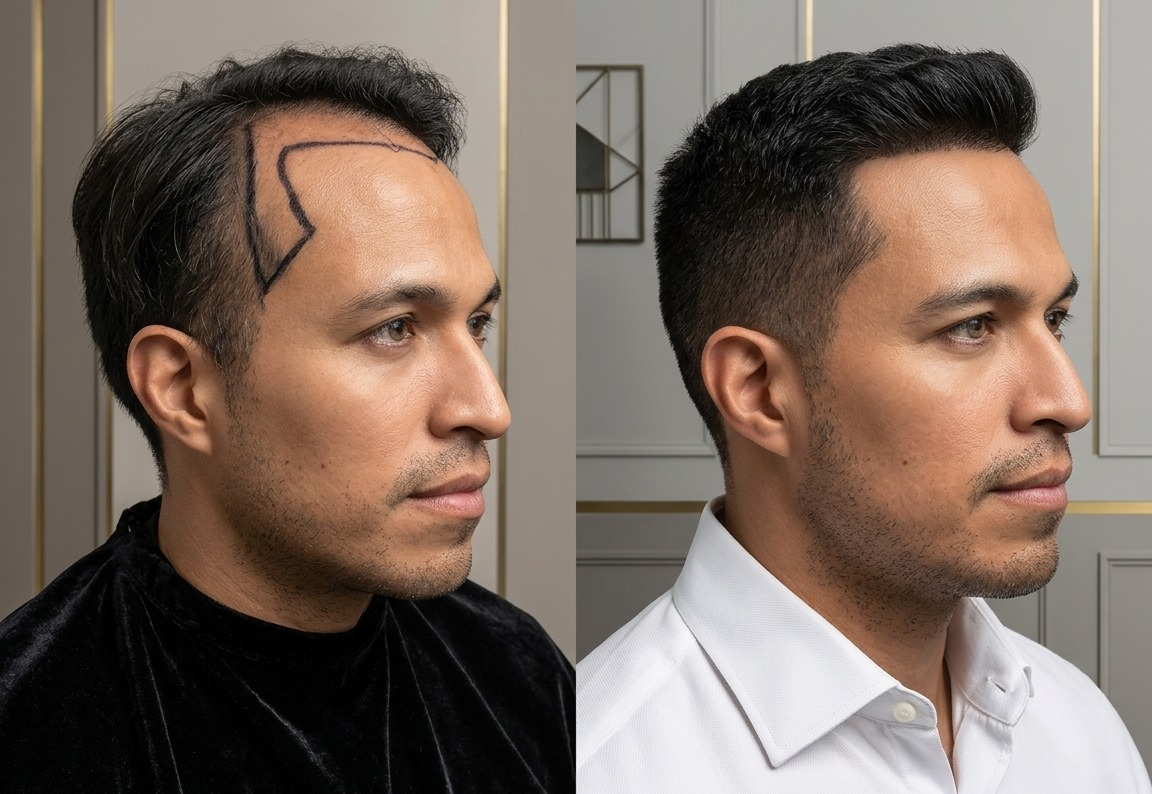
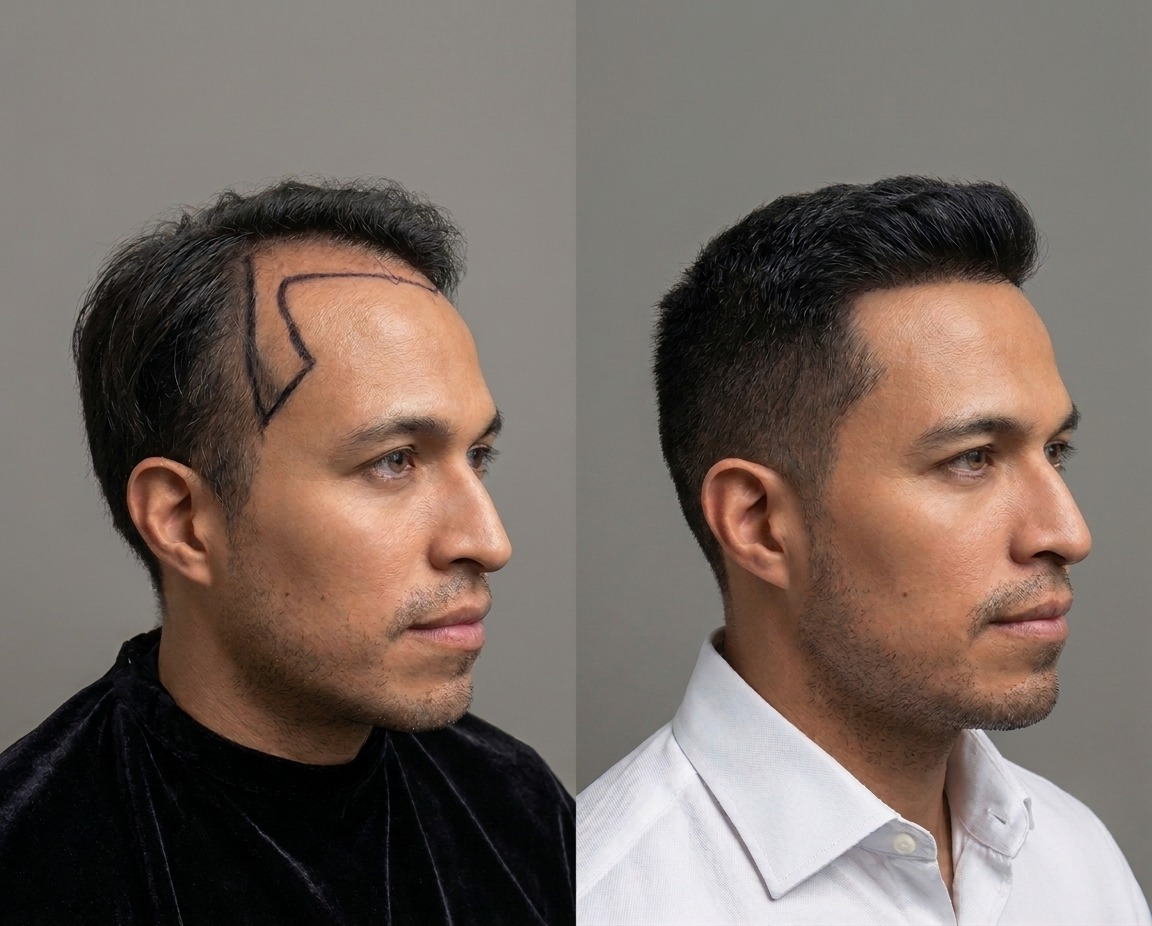
Swap Mexico City hair transplant before/after photo
Replace the destination BA image with the updated pair.

diff --git a/procedures/hair-transplant.html b/procedures/hair-transplant.html
@@ -255,7 +255,7 @@
             <p class="proc-guide__dest-copy">Close and affordable for patients in the U.S. and Canada. An estimated 40 to 60 percent of medical tourists there come from the U.S.</p>
           </div>
           <figure class="proc-guide__photo proc-guide__photo--face">
-            <img src="../assets/hair-ba-mexico-city.jpg" alt="Illustrative hair transplant before and after example for Mexico City" width="1152" height="794" loading="lazy" decoding="async">
+            <img src="../assets/hair-ba-mexico-city.jpg" alt="Illustrative hair transplant before and after example for Mexico City" width="1152" height="926" loading="lazy" decoding="async">
           </figure>
         </div>
         <div class="proc-guide__clinics"><a class="proc-clinic-row" href="../clinics/agua-caliente-graft-institute.html">
